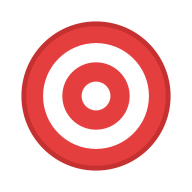
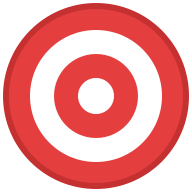
fix Splash screen in PWA 8

diff --git a/convert-icons.js b/convert-icons.js
@@ -10,14 +10,7 @@ async function convertSvgToPng(svgPath, outputPath, size) {
   try {
     const svgBuffer = fs.readFileSync(svgPath);
     await sharp(svgBuffer)
-      .resize(Math.round(size * 0.8), Math.round(size * 0.8))
-      .extend({
-        top: Math.round(size * 0.1),
-        bottom: Math.round(size * 0.1),
-        left: Math.round(size * 0.1),
-        right: Math.round(size * 0.1),
-        background: { r: 255, g: 255, b: 255, alpha: 1 }
-      })
+      .resize(size, size)
       .png()
       .toFile(outputPath);
     console.log(`Converted ${svgPath} to ${outputPath}`);
@@ -28,20 +21,14 @@ async function convertSvgToPng(svgPath, outputPath, size) {
 
 async function main() {
   const publicDir = path.join(__dirname, 'public');
+  const faviconPath = path.join(publicDir, 'favicon.svg');
   
-  // Konwertuj ikony w różnych rozmiarach
+  // Generuj ikony PNG z favicon.svg
   const sizes = [192, 512];
-  const icons = [
-    { src: path.join(publicDir, 'favicon.svg'), name: 'icon' },
-    { src: path.join(publicDir, 'icon-192x192.svg'), name: 'icon-192x192' },
-    { src: path.join(publicDir, 'icon-512x512.svg'), name: 'icon-512x512' }
-  ];
-
-  for (const icon of icons) {
-    for (const size of sizes) {
-      const outputPath = path.join(publicDir, `${icon.name}-${size}.png`);
-      await convertSvgToPng(icon.src, outputPath, size);
-    }
+  
+  for (const size of sizes) {
+    const outputPath = path.join(publicDir, `icon-${size}.png`);
+    await convertSvgToPng(faviconPath, outputPath, size);
   }
 }
 
